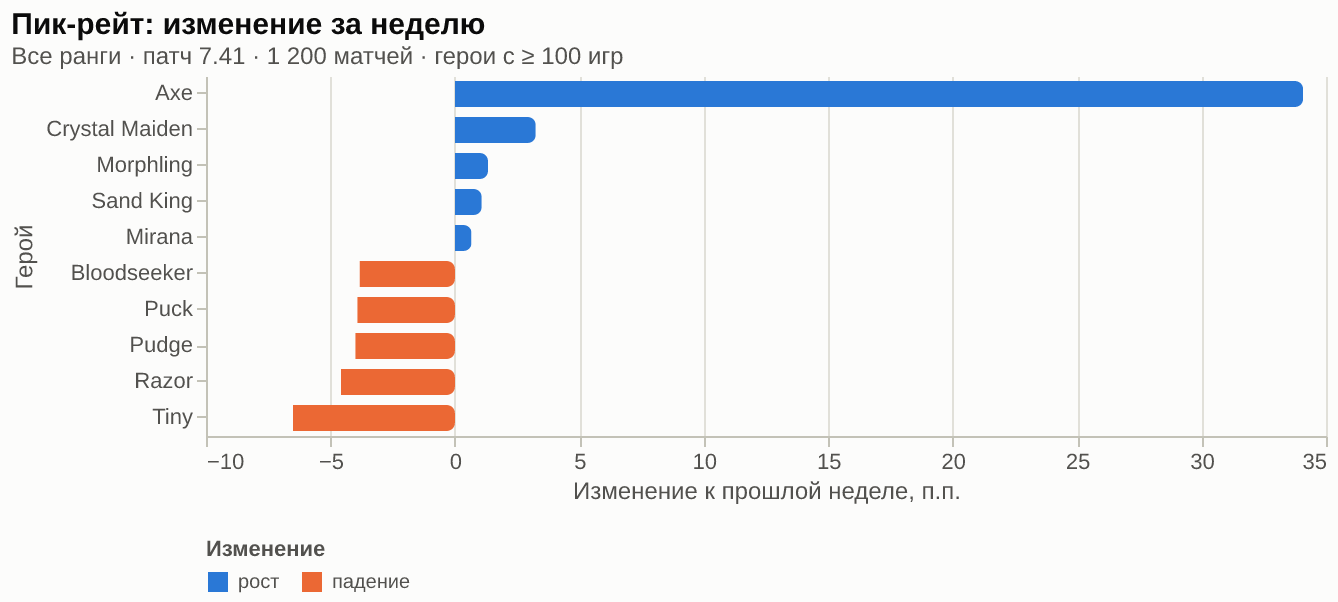
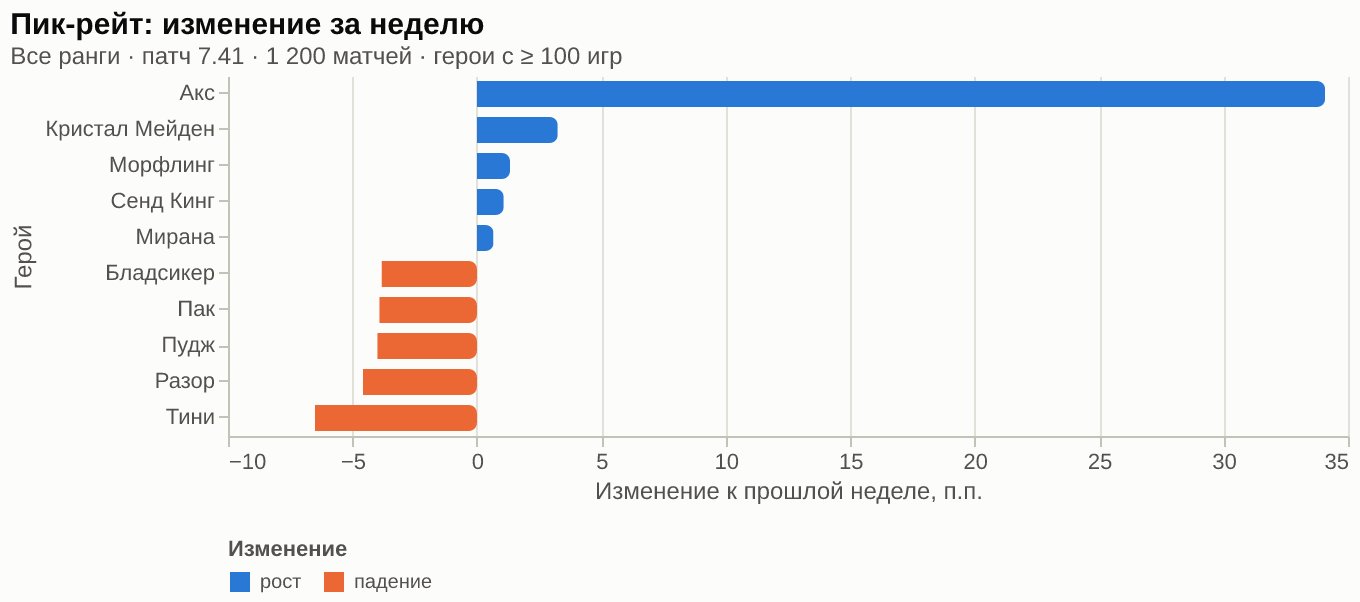
Name heroes in Russian in insight drafts (#37)
Use the shared RU name table from p9-11 instead of English display names in the
Weekly Meta Report and anomaly drafts; draft file names keep English slugs.

diff --git a/src/dota_insights/insights/texts.py b/src/dota_insights/insights/texts.py
@@ -8,7 +8,7 @@ from datetime import date, timedelta
 
 from dota_insights.insights.data import ALL_RANKS, WeekCounts
 from dota_insights.insights.meta import Anomaly, HeroChange, MetaReport, Metric, Movers
-from dota_insights.reference.loader import hero_by_id
+from dota_insights.reference.loader import hero_by_id, hero_name_ru
 
 NBSP = " "
 MINUS = "−"
@@ -45,11 +45,17 @@ SOURCE_NOTES = {
 ZTEST_NOTE = "двусторонний z-тест долей, поправка Бенджамини–Хохберга"
 
 
-def hero_name(hero_id: int) -> str:
-    # TODO: switch to the RU/EN name resolver from the i18n session once it lands; English
-    # names are what most Russian-speaking players use in posts anyway.
+def hero_name_en(hero_id: int) -> str:
     hero = hero_by_id().get(hero_id)
     return hero.display_name if hero else f"Hero #{hero_id}"
+
+
+def hero_name(hero_id: int) -> str:
+    """The hero's usual Russian name for the posts, falling back to the English one."""
+    hero = hero_by_id().get(hero_id)
+    if hero is None:
+        return f"Hero #{hero_id}"
+    return hero_name_ru(hero) or hero.display_name
 
 
 def fmt_int(value: int) -> str:

diff --git a/tests/test_insights.py b/tests/test_insights.py
@@ -222,7 +222,9 @@ def test_russian_number_formats():
         "29 декабря 2025 – 4 января 2026"
     )
     assert texts.fmt_q(0.0002) == "< 0,001"
-    assert texts.hero_name(1) == "Anti-Mage"
+    assert texts.hero_name(1) == "Антимаг"
+    assert texts.hero_name(99999) == "Hero #99999"
+    assert texts.hero_name_en(1) == "Anti-Mage"
 
 
 def test_posts_state_sample_and_patch(seeded):
@@ -233,7 +235,7 @@ def test_posts_state_sample_and_patch(seeded):
     post = texts.weekly_post(result)
     assert post.startswith("**Weekly Meta Report · 26 октября – 1 ноября 2026**")
     assert "Патч 7.41 · все ранги · 1 200 матчей (неделей ранее 1 200)" in post
-    assert "• Anti-Mage — " in post and "≥ 100 игр" in post
+    assert "• Антимаг — " in post and "≥ 100 игр" in post
     assert len(post) < 1024  # fits a Telegram photo caption
     draft = texts.anomaly_post(result.anomalies[0], result)
     assert "патч 7.41" in draft and "Игр с героем:" in draft and "z = " in draft

diff --git a/src/dota_insights/insights/report.py b/src/dota_insights/insights/report.py
@@ -76,7 +76,7 @@ def _slug(text: str) -> str:
 def anomaly_filename(index: int, anomaly: Anomaly) -> str:
     c = anomaly.change
     rank = "all" if c.bracket == ALL_RANKS else f"rank{c.bracket}"
-    return f"{index:02d}-{_slug(texts.hero_name(c.hero_id))}-{anomaly.metric}-{rank}.md"
+    return f"{index:02d}-{_slug(texts.hero_name_en(c.hero_id))}-{anomaly.metric}-{rank}.md"
 
 
 def _change_json(c) -> dict[str, Any]:

diff --git a/docs/samples/insights/2026-11-01/weekly-meta-by-rank.md b/docs/samples/insights/2026-11-01/weekly-meta-by-rank.md
@@ -10,41 +10,41 @@
 
 | Герой | Было | Стало | Изменение | Игр (было → стало) | z |
 |---|---:|---:|---:|---:|---:|
-| Anti-Mage | 49,6% | 67,3% | +17,7 п.п. | 589 → 581 | 6,1 |
-| Drow Ranger | 45,1% | 50,0% | +4,9 п.п. | 618 → 586 | 1,7 |
-| Bane | 47,9% | 50,4% | +2,4 п.п. | 578 → 556 | 0,8 |
-| Pudge | 49,9% | 52,0% | +2,1 п.п. | 627 → 579 | 0,7 |
-| Morphling | 50,0% | 51,3% | +1,3 п.п. | 600 → 616 | 0,5 |
+| Антимаг | 49,6% | 67,3% | +17,7 п.п. | 589 → 581 | 6,1 |
+| Дроу Рейнджер | 45,1% | 50,0% | +4,9 п.п. | 618 → 586 | 1,7 |
+| Бейн | 47,9% | 50,4% | +2,4 п.п. | 578 → 556 | 0,8 |
+| Пудж | 49,9% | 52,0% | +2,1 п.п. | 627 → 579 | 0,7 |
+| Морфлинг | 50,0% | 51,3% | +1,3 п.п. | 600 → 616 | 0,5 |
 
 ### 📉 Win rate падает
 
 | Герой | Было | Стало | Изменение | Игр (было → стало) | z |
 |---|---:|---:|---:|---:|---:|
-| Razor | 52,8% | 45,4% | −7,4 п.п. | 621 → 566 | −2,6 |
-| Puck | 52,7% | 48,2% | −4,5 п.п. | 624 → 577 | −1,6 |
-| Axe | 53,3% | 49,4% | −3,9 п.п. | 572 → 981 | −1,5 |
-| Sand King | 50,6% | 48,0% | −2,6 п.п. | 595 → 608 | −0,9 |
-| Vengeful Spirit | 50,9% | 48,4% | −2,4 п.п. | 584 → 570 | −0,8 |
+| Разор | 52,8% | 45,4% | −7,4 п.п. | 621 → 566 | −2,6 |
+| Пак | 52,7% | 48,2% | −4,5 п.п. | 624 → 577 | −1,6 |
+| Акс | 53,3% | 49,4% | −3,9 п.п. | 572 → 981 | −1,5 |
+| Сенд Кинг | 50,6% | 48,0% | −2,6 п.п. | 595 → 608 | −0,9 |
+| Венджфул Спирит | 50,9% | 48,4% | −2,4 п.п. | 584 → 570 | −0,8 |
 
 ### 🔥 Пикают чаще
 
 | Герой | Было | Стало | Изменение | Игр (было → стало) | z |
 |---|---:|---:|---:|---:|---:|
-| Axe | 47,7% | 81,8% | +34,1 п.п. | 572 → 981 | 17,5 |
-| Crystal Maiden | 47,2% | 50,5% | +3,3 п.п. | 567 → 606 | 1,6 |
-| Morphling | 50,0% | 51,3% | +1,3 п.п. | 600 → 616 | 0,7 |
-| Sand King | 49,6% | 50,7% | +1,1 п.п. | 595 → 608 | 0,5 |
-| Mirana | 49,2% | 49,8% | +0,7 п.п. | 590 → 598 | 0,3 |
+| Акс | 47,7% | 81,8% | +34,1 п.п. | 572 → 981 | 17,5 |
+| Кристал Мейден | 47,2% | 50,5% | +3,3 п.п. | 567 → 606 | 1,6 |
+| Морфлинг | 50,0% | 51,3% | +1,3 п.п. | 600 → 616 | 0,7 |
+| Сенд Кинг | 49,6% | 50,7% | +1,1 п.п. | 595 → 608 | 0,5 |
+| Мирана | 49,2% | 49,8% | +0,7 п.п. | 590 → 598 | 0,3 |
 
 ### 🧊 Пикают реже
 
 | Герой | Было | Стало | Изменение | Игр (было → стало) | z |
 |---|---:|---:|---:|---:|---:|
-| Tiny | 51,2% | 44,8% | −6,5 п.п. | 615 → 537 | −3,2 |
-| Razor | 51,7% | 47,2% | −4,6 п.п. | 621 → 566 | −2,2 |
-| Pudge | 52,2% | 48,2% | −4,0 п.п. | 627 → 579 | −2,0 |
-| Puck | 52,0% | 48,1% | −3,9 п.п. | 624 → 577 | −1,9 |
-| Bloodseeker | 50,8% | 47,0% | −3,8 п.п. | 610 → 564 | −1,9 |
+| Тини | 51,2% | 44,8% | −6,5 п.п. | 615 → 537 | −3,2 |
+| Разор | 51,7% | 47,2% | −4,6 п.п. | 621 → 566 | −2,2 |
+| Пудж | 52,2% | 48,2% | −4,0 п.п. | 627 → 579 | −2,0 |
+| Пак | 52,0% | 48,1% | −3,9 п.п. | 624 → 577 | −1,9 |
+| Бладсикер | 50,8% | 47,0% | −3,8 п.п. | 610 → 564 | −1,9 |
 
 ## Рекрут
 
@@ -54,41 +54,41 @@
 
 | Герой | Было | Стало | Изменение | Игр (было → стало) | z |
 |---|---:|---:|---:|---:|---:|
-| Anti-Mage | 55,9% | 67,4% | +11,4 п.п. | 143 → 141 | 2,0 |
-| Shadow Fiend | 45,0% | 55,5% | +10,5 п.п. | 149 → 155 | 1,8 |
-| Bane | 49,7% | 58,0% | +8,4 п.п. | 145 → 143 | 1,4 |
-| Phantom Lancer | 40,4% | 48,1% | +7,7 п.п. | 156 → 133 | 1,3 |
-| Mirana | 40,6% | 45,7% | +5,1 п.п. | 143 → 162 | 0,9 |
+| Антимаг | 55,9% | 67,4% | +11,4 п.п. | 143 → 141 | 2,0 |
+| Шадоу Финд | 45,0% | 55,5% | +10,5 п.п. | 149 → 155 | 1,8 |
+| Бейн | 49,7% | 58,0% | +8,4 п.п. | 145 → 143 | 1,4 |
+| Фантом Лансер | 40,4% | 48,1% | +7,7 п.п. | 156 → 133 | 1,3 |
+| Мирана | 40,6% | 45,7% | +5,1 п.п. | 143 → 162 | 0,9 |
 
 ### 📉 Win rate падает
 
 | Герой | Было | Стало | Изменение | Игр (было → стало) | z |
 |---|---:|---:|---:|---:|---:|
-| Razor | 54,8% | 43,0% | −11,8 п.п. | 146 → 149 | −2,0 |
-| Bloodseeker | 51,5% | 43,0% | −8,5 п.п. | 165 → 128 | −1,5 |
-| Juggernaut | 51,2% | 44,0% | −7,2 п.п. | 170 → 141 | −1,3 |
-| Crystal Maiden | 46,6% | 41,1% | −5,5 п.п. | 131 → 146 | −0,9 |
-| Axe | 58,0% | 52,8% | −5,2 п.п. | 131 → 246 | −1,0 |
+| Разор | 54,8% | 43,0% | −11,8 п.п. | 146 → 149 | −2,0 |
+| Бладсикер | 51,5% | 43,0% | −8,5 п.п. | 165 → 128 | −1,5 |
+| Джаггернаут | 51,2% | 44,0% | −7,2 п.п. | 170 → 141 | −1,3 |
+| Кристал Мейден | 46,6% | 41,1% | −5,5 п.п. | 131 → 146 | −0,9 |
+| Акс | 58,0% | 52,8% | −5,2 п.п. | 131 → 246 | −1,0 |
 
 ### 🔥 Пикают чаще
 
 | Герой | Было | Стало | Изменение | Игр (было → стало) | z |
 |---|---:|---:|---:|---:|---:|
-| Axe | 43,7% | 82,0% | +38,3 п.п. | 131 → 246 | 9,7 |
-| Mirana | 47,7% | 54,0% | +6,3 п.п. | 143 → 162 | 1,6 |
-| Morphling | 52,3% | 58,7% | +6,3 п.п. | 157 → 176 | 1,6 |
-| Crystal Maiden | 43,7% | 48,7% | +5,0 п.п. | 131 → 146 | 1,2 |
-| Shadow Fiend | 49,7% | 51,7% | +2,0 п.п. | 149 → 155 | 0,5 |
+| Акс | 43,7% | 82,0% | +38,3 п.п. | 131 → 246 | 9,7 |
+| Мирана | 47,7% | 54,0% | +6,3 п.п. | 143 → 162 | 1,6 |
+| Морфлинг | 52,3% | 58,7% | +6,3 п.п. | 157 → 176 | 1,6 |
+| Кристал Мейден | 43,7% | 48,7% | +5,0 п.п. | 131 → 146 | 1,2 |
+| Шадоу Финд | 49,7% | 51,7% | +2,0 п.п. | 149 → 155 | 0,5 |
 
 ### 🧊 Пикают реже
 
 | Герой | Было | Стало | Изменение | Игр (было → стало) | z |
 |---|---:|---:|---:|---:|---:|
-| Bloodseeker | 55,0% | 42,7% | −12,3 п.п. | 165 → 128 | −3,0 |
-| Juggernaut | 56,7% | 47,0% | −9,7 п.п. | 170 → 141 | −2,4 |
-| Phantom Lancer | 52,0% | 44,3% | −7,7 п.п. | 156 → 133 | −1,9 |
-| Tiny | 53,3% | 46,0% | −7,3 п.п. | 160 → 138 | −1,8 |
-| Pudge | 50,0% | 44,3% | −5,7 п.п. | 150 → 133 | −1,4 |
+| Бладсикер | 55,0% | 42,7% | −12,3 п.п. | 165 → 128 | −3,0 |
+| Джаггернаут | 56,7% | 47,0% | −9,7 п.п. | 170 → 141 | −2,4 |
+| Фантом Лансер | 52,0% | 44,3% | −7,7 п.п. | 156 → 133 | −1,9 |
+| Тини | 53,3% | 46,0% | −7,3 п.п. | 160 → 138 | −1,8 |
+| Пудж | 50,0% | 44,3% | −5,7 п.п. | 150 → 133 | −1,4 |
 
 ## Легенда
 
@@ -98,36 +98,36 @@
 
 | Герой | Было | Стало | Изменение | Игр (было → стало) | z |
 |---|---:|---:|---:|---:|---:|
-| Anti-Mage | 47,5% | 67,3% | +19,7 п.п. | 446 → 440 | 5,9 |
-| Drow Ranger | 43,8% | 49,7% | +5,8 п.п. | 463 → 435 | 1,7 |
-| Crystal Maiden | 46,8% | 49,8% | +3,0 п.п. | 436 → 460 | 0,9 |
-| Pudge | 48,8% | 51,6% | +2,7 п.п. | 477 → 446 | 0,8 |
-| Morphling | 49,9% | 51,8% | +1,9 п.п. | 443 → 440 | 0,6 |
+| Антимаг | 47,5% | 67,3% | +19,7 п.п. | 446 → 440 | 5,9 |
+| Дроу Рейнджер | 43,8% | 49,7% | +5,8 п.п. | 463 → 435 | 1,7 |
+| Кристал Мейден | 46,8% | 49,8% | +3,0 п.п. | 436 → 460 | 0,9 |
+| Пудж | 48,8% | 51,6% | +2,7 п.п. | 477 → 446 | 0,8 |
+| Морфлинг | 49,9% | 51,8% | +1,9 п.п. | 443 → 440 | 0,6 |
 
 ### 📉 Win rate падает
 
 | Герой | Было | Стало | Изменение | Игр (было → стало) | z |
 |---|---:|---:|---:|---:|---:|
-| Puck | 54,9% | 48,0% | −6,9 п.п. | 466 → 433 | −2,1 |
-| Razor | 52,2% | 46,3% | −5,9 п.п. | 475 → 417 | −1,8 |
-| Shadow Fiend | 50,3% | 46,3% | −4,1 п.п. | 429 → 404 | −1,2 |
-| Axe | 51,9% | 48,3% | −3,6 п.п. | 441 → 735 | −1,2 |
-| Mirana | 52,3% | 49,1% | −3,3 п.п. | 447 → 436 | −1,0 |
+| Пак | 54,9% | 48,0% | −6,9 п.п. | 466 → 433 | −2,1 |
+| Разор | 52,2% | 46,3% | −5,9 п.п. | 475 → 417 | −1,8 |
+| Шадоу Финд | 50,3% | 46,3% | −4,1 п.п. | 429 → 404 | −1,2 |
+| Акс | 51,9% | 48,3% | −3,6 п.п. | 441 → 735 | −1,2 |
+| Мирана | 52,3% | 49,1% | −3,3 п.п. | 447 → 436 | −1,0 |
 
 ### 🔥 Пикают чаще
 
 | Герой | Было | Стало | Изменение | Игр (было → стало) | z |
 |---|---:|---:|---:|---:|---:|
-| Axe | 49,0% | 81,7% | +32,7 п.п. | 441 → 735 | 14,6 |
-| Crystal Maiden | 48,4% | 51,1% | +2,7 п.п. | 436 → 460 | 1,1 |
-| Sand King | 49,2% | 51,3% | +2,1 п.п. | 443 → 462 | 0,9 |
+| Акс | 49,0% | 81,7% | +32,7 п.п. | 441 → 735 | 14,6 |
+| Кристал Мейден | 48,4% | 51,1% | +2,7 п.п. | 436 → 460 | 1,1 |
+| Сенд Кинг | 49,2% | 51,3% | +2,1 п.п. | 443 → 462 | 0,9 |
 
 ### 🧊 Пикают реже
 
 | Герой | Было | Стало | Изменение | Игр (было → стало) | z |
 |---|---:|---:|---:|---:|---:|
-| Razor | 52,8% | 46,3% | −6,4 п.п. | 475 → 417 | −2,7 |
-| Tiny | 50,6% | 44,3% | −6,2 п.п. | 455 → 399 | −2,6 |
-| Puck | 51,8% | 48,1% | −3,7 п.п. | 466 → 433 | −1,6 |
-| Pudge | 53,0% | 49,6% | −3,4 п.п. | 477 → 446 | −1,5 |
-| Drow Ranger | 51,4% | 48,3% | −3,1 п.п. | 463 → 435 | −1,3 |
+| Разор | 52,8% | 46,3% | −6,4 п.п. | 475 → 417 | −2,7 |
+| Тини | 50,6% | 44,3% | −6,2 п.п. | 455 → 399 | −2,6 |
+| Пак | 51,8% | 48,1% | −3,7 п.п. | 466 → 433 | −1,6 |
+| Пудж | 53,0% | 49,6% | −3,4 п.п. | 477 → 446 | −1,5 |
+| Дроу Рейнджер | 51,4% | 48,3% | −3,1 п.п. | 463 → 435 | −1,3 |

diff --git a/docs/samples/insights/2026-11-01/weekly-meta.md b/docs/samples/insights/2026-11-01/weekly-meta.md
@@ -2,23 +2,23 @@
 Патч 7.41 · все ранги · 1 200 матчей (неделей ранее 1 200)
 
 **📈 Win rate растёт**
-• Anti-Mage — 67,3% (+17,7 п.п.), 581 игра
-• Drow Ranger — 50,0% (+4,9 п.п.), 586 игр
-• Bane — 50,4% (+2,4 п.п.), 556 игр
+• Антимаг — 67,3% (+17,7 п.п.), 581 игра
+• Дроу Рейнджер — 50,0% (+4,9 п.п.), 586 игр
+• Бейн — 50,4% (+2,4 п.п.), 556 игр
 
 **📉 Win rate падает**
-• Razor — 45,4% (−7,4 п.п.), 566 игр
-• Puck — 48,2% (−4,5 п.п.), 577 игр
-• Axe — 49,4% (−3,9 п.п.), 981 игра
+• Разор — 45,4% (−7,4 п.п.), 566 игр
+• Пак — 48,2% (−4,5 п.п.), 577 игр
+• Акс — 49,4% (−3,9 п.п.), 981 игра
 
 **🔥 Пикают чаще**
-• Axe — 81,8% (+34,1 п.п.), 981 игра
-• Crystal Maiden — 50,5% (+3,3 п.п.), 606 игр
-• Morphling — 51,3% (+1,3 п.п.), 616 игр
+• Акс — 81,8% (+34,1 п.п.), 981 игра
+• Кристал Мейден — 50,5% (+3,3 п.п.), 606 игр
+• Морфлинг — 51,3% (+1,3 п.п.), 616 игр
 
 **🧊 Пикают реже**
-• Tiny — 44,8% (−6,5 п.п.), 537 игр
-• Razor — 47,2% (−4,6 п.п.), 566 игр
-• Pudge — 48,2% (−4,0 п.п.), 579 игр
+• Тини — 44,8% (−6,5 п.п.), 537 игр
+• Разор — 47,2% (−4,6 п.п.), 566 игр
+• Пудж — 48,2% (−4,0 п.п.), 579 игр
 
 Выборка: рейтинговые матчи, собранные Dota Insights; герои с ≥ 100 игр в каждой из двух недель. В скобках — изменение к предыдущей неделе.

diff --git a/docs/samples/insights/2026-11-01/insights/04-bloodseeker-pickrate-rank1.md b/docs/samples/insights/2026-11-01/insights/04-bloodseeker-pickrate-rank1.md
@@ -1,6 +1,6 @@
-**Пик-рейт Bloodseeker · 26 октября – 1 ноября 2026**
+**Пик-рейт Бладсикер · 26 октября – 1 ноября 2026**
 
-Bloodseeker пикают реже: пик-рейт за неделю снизился с 55,0% до 42,7% (−12,3 п.п.).
+Бладсикер пикают реже: пик-рейт за неделю снизился с 55,0% до 42,7% (−12,3 п.п.).
 Ранг рекрут, патч 7.41. Игр с героем: 165 → 128; матчей в выборке: 300 → 300.
 Изменение статистически значимо: z = −3,0, q = 0,043 (двусторонний z-тест долей, поправка Бенджамини–Хохберга).
 

diff --git a/docs/samples/insights/2026-11-01/insights/03-tiny-pickrate-all.md b/docs/samples/insights/2026-11-01/insights/03-tiny-pickrate-all.md
@@ -1,6 +1,6 @@
-**Пик-рейт Tiny · 26 октября – 1 ноября 2026**
+**Пик-рейт Тини · 26 октября – 1 ноября 2026**
 
-Tiny пикают реже: пик-рейт за неделю снизился с 51,2% до 44,8% (−6,5 п.п.).
+Тини пикают реже: пик-рейт за неделю снизился с 51,2% до 44,8% (−6,5 п.п.).
 Все ранги, патч 7.41. Игр с героем: 615 → 537; матчей в выборке: 1 200 → 1 200.
 Изменение статистически значимо: z = −3,2, q = 0,029 (двусторонний z-тест долей, поправка Бенджамини–Хохберга).
 

diff --git a/docs/samples/insights/2026-11-01/insights/01-axe-pickrate-all.md b/docs/samples/insights/2026-11-01/insights/01-axe-pickrate-all.md
@@ -1,6 +1,6 @@
-**Пик-рейт Axe · 26 октября – 1 ноября 2026**
+**Пик-рейт Акс · 26 октября – 1 ноября 2026**
 
-Axe пикают чаще: пик-рейт за неделю вырос с 47,7% до 81,8% (+34,1 п.п.).
+Акс пикают чаще: пик-рейт за неделю вырос с 47,7% до 81,8% (+34,1 п.п.).
 Все ранги, патч 7.41. Игр с героем: 572 → 981; матчей в выборке: 1 200 → 1 200.
 Изменение статистически значимо: z = 17,5, q < 0,001 (двусторонний z-тест долей, поправка Бенджамини–Хохберга).
 

diff --git a/docs/samples/insights/2026-11-01/insights/02-anti-mage-winrate-all.md b/docs/samples/insights/2026-11-01/insights/02-anti-mage-winrate-all.md
@@ -1,6 +1,6 @@
-**Win rate Anti-Mage · 26 октября – 1 ноября 2026**
+**Win rate Антимаг · 26 октября – 1 ноября 2026**
 
-Anti-Mage: win rate за неделю вырос с 49,6% до 67,3% (+17,7 п.п.).
+Антимаг: win rate за неделю вырос с 49,6% до 67,3% (+17,7 п.п.).
 Все ранги, патч 7.41. Игр с героем: 589 → 581; матчей в выборке: 1 200 → 1 200.
 Изменение статистически значимо: z = 6,1, q < 0,001 (двусторонний z-тест долей, поправка Бенджамини–Хохберга).
 

diff --git a/CHANGELOG.md b/CHANGELOG.md
@@ -6,6 +6,11 @@ All notable changes to this project. The format follows
 
 ## [Unreleased]
 
+### Changed
+
+- Insight and Weekly Meta Report drafts name heroes in Russian ("Антимаг", "Пудж") through
+  the shared RU name table, falling back to English; draft file names stay English slugs.
+
 ### Added
 
 - Russian hero and item names (p9-11): `reference/data/names_ru.json` lists the usual Russian
